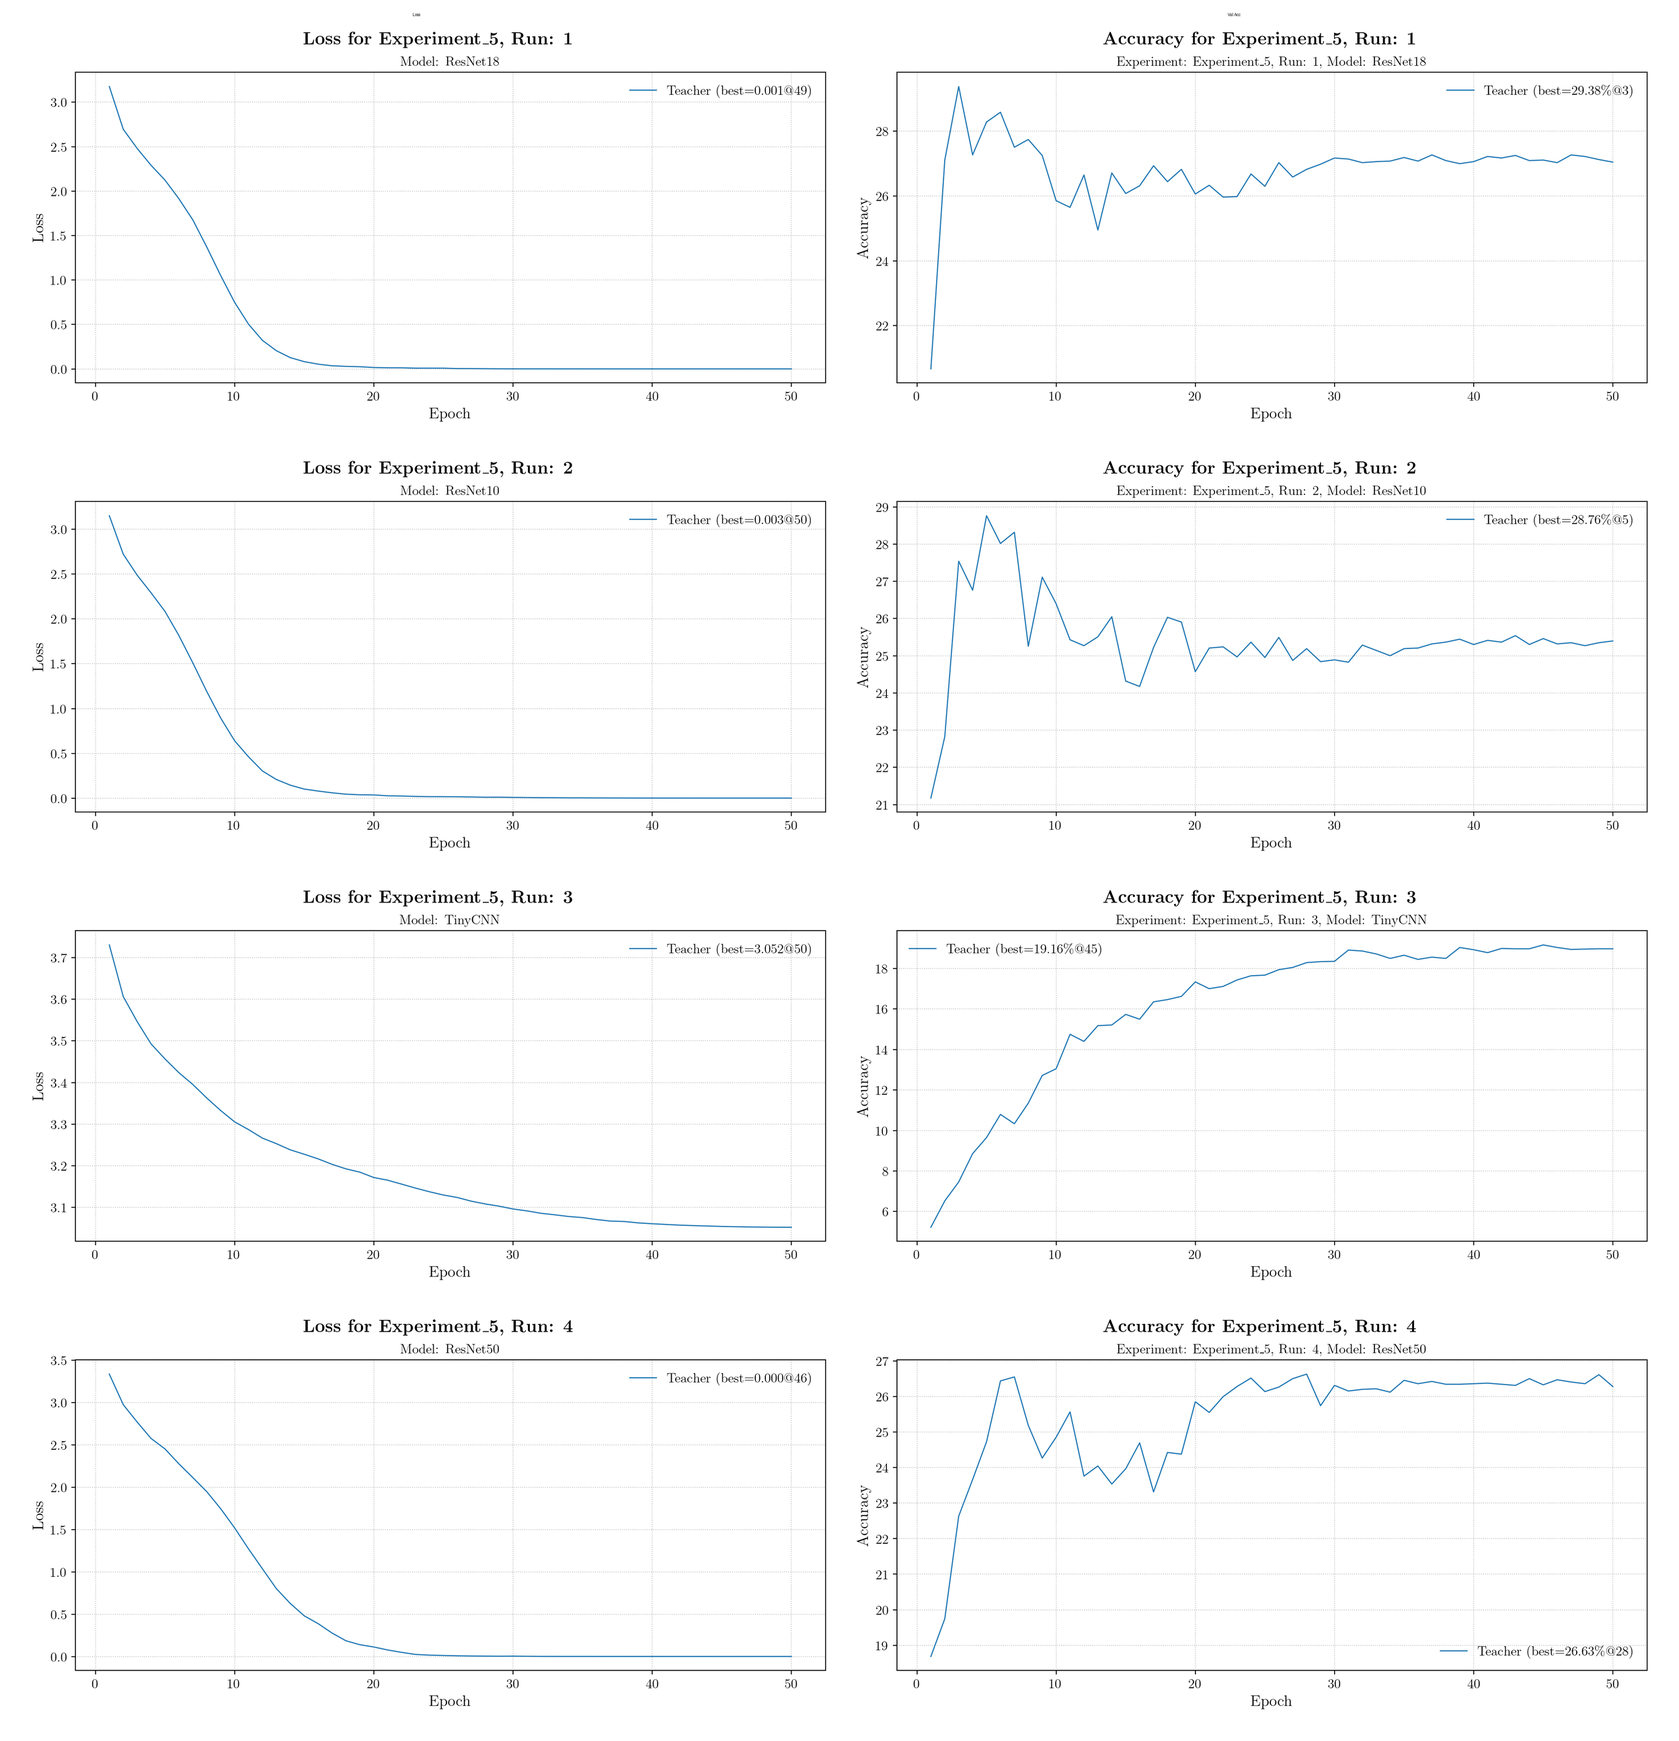
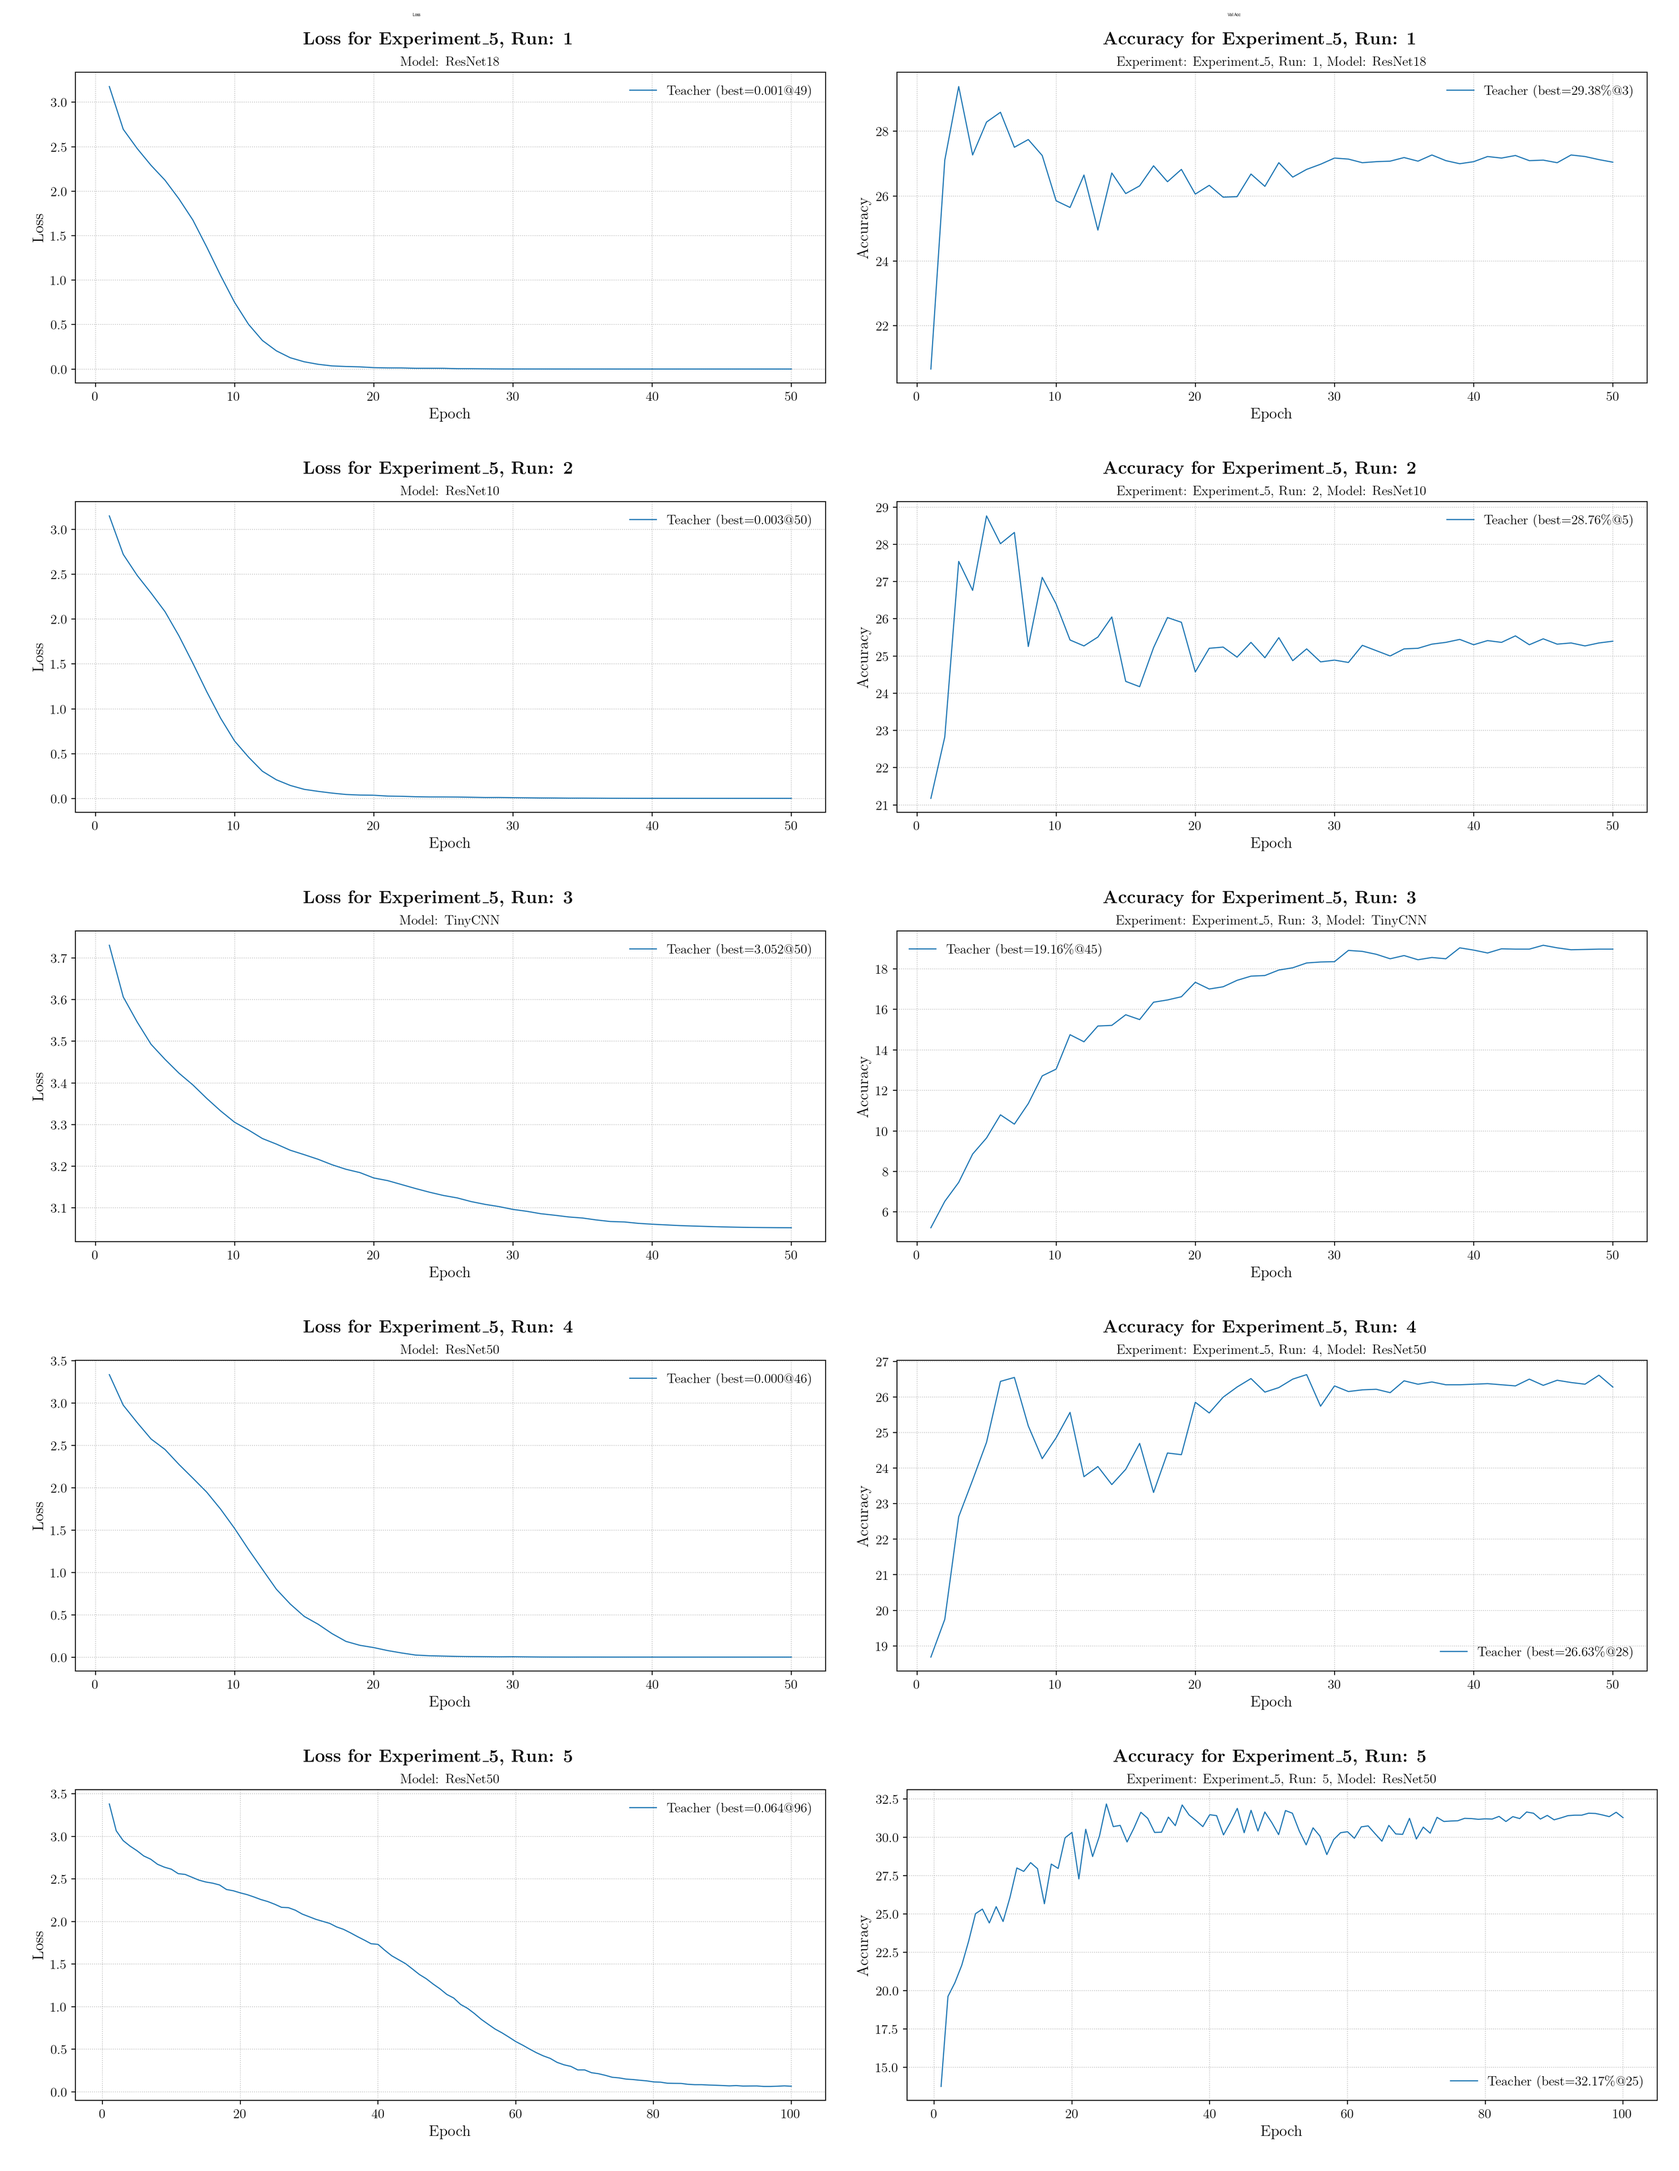
plots

diff --git a/generate_plots.py b/generate_plots.py
@@ -17,10 +17,10 @@ def main():
     log.info(f"Config loaded from {logger_cfg_path}")
 
     # Generate plots for experiments
-    _make_plots_for_experiment(experiment_name="Experiment_1", num_runs=12, only_overview=False)
-    _make_plots_for_experiment(experiment_name="Experiment_3", num_runs=24, only_overview=False)
-    _make_plots_for_experiment(experiment_name="Experiment_4", num_runs=24, only_overview=False)
-    _make_plots_for_experiment(experiment_name="Experiment_5", num_runs=4, only_overview=False)
+    # _make_plots_for_experiment(experiment_name="Experiment_1", num_runs=12, only_overview=False)
+    # _make_plots_for_experiment(experiment_name="Experiment_3", num_runs=24, only_overview=False)
+    # _make_plots_for_experiment(experiment_name="Experiment_4", num_runs=24, only_overview=False)
+    _make_plots_for_experiment(experiment_name="Experiment_5", num_runs=5, only_overview=False)
     # _make_plots_for_experiment(experiment_name="Experiment_6", num_runs=24, only_overview=False)
 
 
